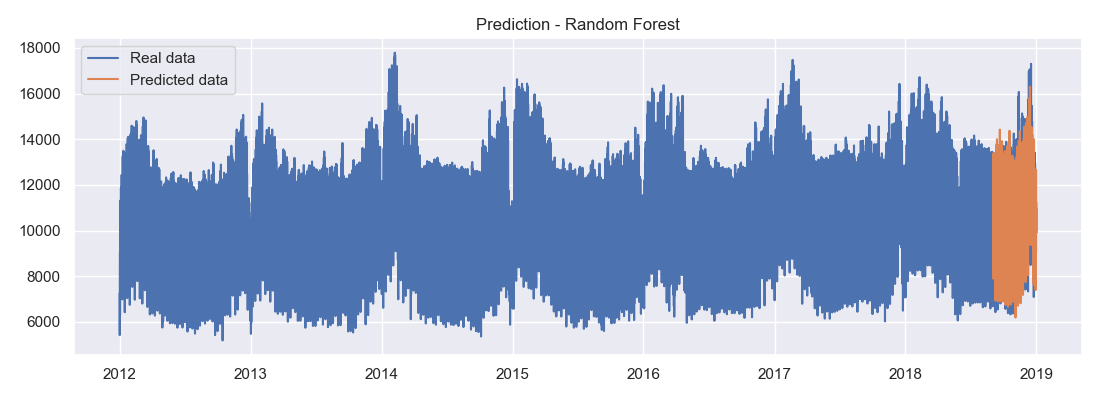
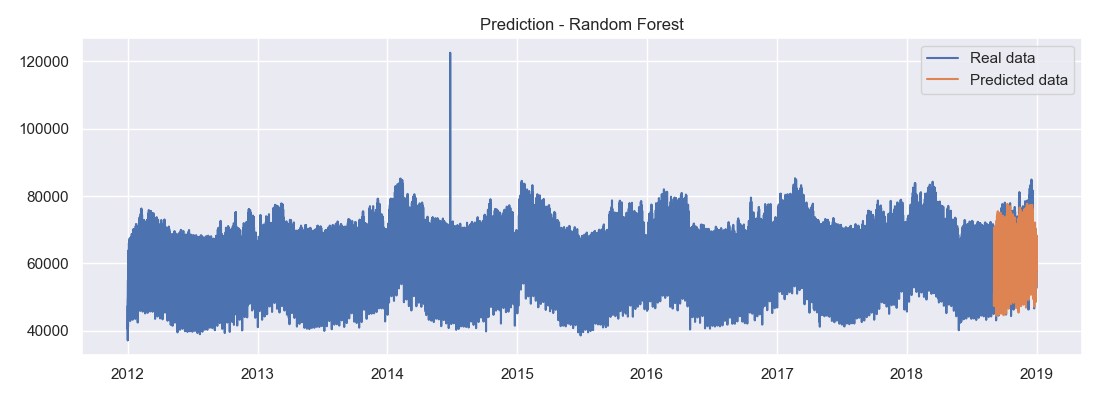
outliers detection and fix

diff --git a/ons_analysis.py b/ons_analysis.py
@@ -29,7 +29,7 @@ filename = filename[0].replace('\\','/')
 dataset = pd.read_csv(filename,index_col=None, header=0, delimiter=";")
 
 # Selection of year
-selectDatasets = ["2012","2013","2014","2015","2016","2017","2018"]
+selectDatasets = ["2011","2012","2013","2014","2015","2016","2017","2018"]
 
 # Select only selected data
 datasetList = []
@@ -187,74 +187,91 @@ Xs = pd.DataFrame(Xs)
 Ndays = 120
 testSize = (Ndays*24)/(ys.shape[0])
 #testSize = 0.1
-X_train, X_test, y_train, y_test = train_test_split(Xs, ys, test_size = testSize, random_state = 0, shuffle = False)
+X_train, X_test, y_train, y_test = train_test_split(Xs, yall, test_size = testSize, random_state = 0, shuffle = False)
 
+y_ = pd.concat([y_train, y_test])
+X_ = pd.concat([X_train, X_test])
 
 def outlinerDetection():
-    from sklearn.ensemble import IsolationForest
-    clf = IsolationForest(n_estimators=100, warm_start=True, max_samples='auto', random_state=42)
-    clf.fit(X_train, y_train)
-    y_pred_train = clf.predict(X_train)
-    y_pred_test = clf.predict(X_test)
+    global yall, X_train, X_test, y_train, y_test, y_, X_
     
-#    y_pred_test = pd.DataFrame(y_pred_test).set_index(X_test.index)
-    
-    outliers_train = ys.loc[y_pred_train == -1]
-#    outliers_test = ys.loc[y_pred_test == -1]
-
-    print("Outliers: " + str(len(outliers_train)) +" of "+ str(len(Xs)) + " values.", end="\n")
-    
-#    
-#    from sklearn.decomposition import PCA
-#    from sklearn.preprocessing import StandardScaler
-#    from mpl_toolkits.mplot3d import Axes3D
-#    pca = PCA(n_components=3)  # Reduce to k=3 dimensions
-#    sc = StandardScaler()
-    #normalize the metrics
-#    ys_trainsc = sc.fit_transform(pd.DataFrame(y_train))
-#    X_reduced = pca.fit_transform(ys_trainsc)
-#    fig = plt.figure()
-#    ax = fig.add_subplot(111, projection='3d')
-#    ax.set_zlabel("x_composite_3")
-#    # Plot the compressed data points
-#    ax.scatter(X_reduced[:, 0], X_reduced[:, 1], zs=X_reduced[:, 2], s=4, lw=1, label="inliers",c="green")
-#    # Plot x's for the ground truth outliers
-#    ax.scatter(X_reduced[outliers_train.index.values,0],X_reduced[outliers_train.index.values,1], X_reduced[outliers_train.index.values,2],
-#               lw=2, s=60, marker="x", c="red", label="outliers")
-#    ax.legend()
-#    plt.show()
-
-#    pca = PCA(n_components=1)
-#    pca.fit(pd.DataFrame(y_train))
-#    res=pd.DataFrame(pca.transform(pd.DataFrame(y_train)))
-#    Z = np.array(res)
-    plt.figure()
-    plt.title("IsolationForest")
-#    plt.contourf( Z, cmap=plt.cm.Blues_r)
-#    b1 = plt.scatter(res[0], res[1], c='green',
-#                    s=1,label="normal points")
-    b1 = plt.plot(y_train,label="normal points")
-#    b1 = plt.scatter(res.iloc[outliers_train.index.values,0],res.iloc[outliers_train.index.values,1], c='red',s=1,  label="predicted outliers")
-#    outliers_train.reindex(list(range(outliers_train.index.min(),outliers_train.index.max()+1)),fill_value=0)
-    outliers_train = outliers_train.reindex(list(range(outliers_train.index.min(),outliers_train.index.max()+1)),fill_value=0)
-#    outliers_trainsc = sc.fit_transform(pd.DataFrame(outliers_train))
-    b1 = plt.scatter(outliers_train.index.values,outliers_train, c='red',s=10,  label="predicted outliers")
-    plt.legend(loc="upper right")
-    plt.show()
-    
-    
-    
-    ####
     import plotly.io as pio
-    import plotly
     import plotly.graph_objects as go
+    import plotly
     pio.renderers.default = 'browser'
     
+    from sklearn.neighbors import LocalOutlierFactor
+    clf = LocalOutlierFactor(n_neighbors=20)
+    
+    
+    y_pred = clf.fit_predict(pd.DataFrame(y_))
+#    outliers_train = y_train.loc[y_pred_train == -1]
+    
+    negativeOutlierFactor = clf.negative_outlier_factor_
+    outliers = y_train.loc[negativeOutlierFactor < (negativeOutlierFactor.mean() - negativeOutlierFactor.std()-1)]
+    
+#    outliers.reindex(list(range(outliers.index.min(),outliers.index.max()+1)),fill_value=0)
+    
+
+    outliers_reindex = outliers.reindex(list(range(df.index.min(),df.index.max()+1)))
+
+    fig = go.Figure()
+    fig.add_trace(go.Scatter(x=df,
+                             y=y_,
+                             name='Demand (y_train)',
+                             mode='lines'))                         
+    fig.add_trace(go.Scatter(x=df,
+                             y=outliers_reindex,
+                             name='Predicted Outliers',
+                             mode='markers',
+                             marker_size=10))
+    # Edit the layout
+    fig.update_layout(title='Outliers',
+                      xaxis_title='Date',
+                      yaxis_title='Demand'
+                      )
+#                      width=1000,
+#                      height=500)
+
+    fig.show()
+    fig.write_image("ONS_outliers.png")
+    
+    # Fix outliers by removing them
+    
+    yall = pd.DataFrame(yall).replace([outliers],np.nan)
+    
+#    yall.loc[outliers.index.values]
+    
+    
+    X_train, X_test, y_train, y_test = train_test_split(Xs, yall.squeeze(), test_size = testSize, random_state = 0, shuffle = False)
+
+    y_ = pd.concat([y_train, y_test])
+    X_ = pd.concat([X_train, X_test])
+    
+#    y_ = np.array(y_)
+#    y_ = y_.reshape(y_.shape[0])
     
     fig = go.Figure()
-    fig.add_trace(go.Scatter(x=df, y=ys, name='South Demand', mode='markers'))                         
-    fig.show()
+    fig.add_trace(go.Scatter(x=df,
+                             y=y_,
+                             name='Demand (y_train)',
+                             mode='lines'))                         
+#    fig.add_trace(go.Scatter(x=df,
+#                             y=outliers_reindex,
+#                             name='Predicted Outliers',
+#                             mode='markers',
+#                             marker_size=10))
+    # Edit the layout
+    fig.update_layout(title='Outliers',
+                      xaxis_title='Date',
+                      yaxis_title='Demand'
+                      )
+#                      width=1000,
+#                      height=500)
 
+    fig.show()
+    fig.write_image("ONS_outliers.png")
+    
    
 
 def mean_absolute_percentage_error(y_true, y_pred): 
@@ -271,7 +288,7 @@ def seasonDecomposeCalc(autoCorrelation):
     from statsmodels.tsa.seasonal import seasonal_decompose
     #import statsmodels.api as sm
     data = pd.DataFrame(data=df)
-    concatlist = [data,pd.DataFrame(ys)]
+    concatlist = [data,pd.DataFrame(y_)]
     data = pd.concat(concatlist,axis=1)
     
     data.reset_index(drop=True,inplace=True)
@@ -295,7 +312,7 @@ def seasonDecomposeCalc(autoCorrelation):
 #    plt.title('Trend')
 #    plt.show()
     
-    detrended = ys - result.trend['Demanda'].reset_index(drop=True)
+    detrended = y_ - result.trend['Demanda'].reset_index(drop=True)
     plt.figure()
     plt.plot(detrended)
     plt.title('Detrended')
@@ -306,7 +323,7 @@ def seasonDecomposeCalc(autoCorrelation):
 #    plt.title('Seasonal')
 #    plt.show()
     
-    deseasonalized = ys - result.seasonal['Demanda'].reset_index(drop=True)
+    deseasonalized = y_ - result.seasonal['Demanda'].reset_index(drop=True)
     plt.figure()
     plt.plot(deseasonalized)
     plt.title('Deseasonalized')
@@ -317,21 +334,21 @@ def seasonDecomposeCalc(autoCorrelation):
         
         # Draw Plot
         plt.figure()
-        autocorrelation_plot(ys)
+        autocorrelation_plot(y_)
         plt.show()
         
     #    from statsmodels.tsa.stattools import acf, pacf
         from statsmodels.graphics.tsaplots import plot_acf, plot_pacf
         
-    #    plot_acf(ys)
-    #    plot_pacf(ys, lags=50)
+    #    plot_acf(y_)
+    #    plot_pacf(y_, lags=50)
         
         # PACF plot of 1st differenced series
     #    plt.rcParams.update({'figure.figsize':(9,3), 'figure.dpi':120})
         fig, axes = plt.subplots(1, 2, sharex=True)
-        axes[0].plot(pd.DataFrame(ys).diff()); axes[0].set_title('1st Differencing')
+        axes[0].plot(pd.DataFrame(y_).diff()); axes[0].set_title('1st Differencing')
     #    axes[1].set(ylim=(0,5))
-        plot_acf(pd.DataFrame(ys).diff().dropna(), ax=axes[1])
+        plot_acf(pd.DataFrame(y_).diff().dropna(), ax=axes[1])
         plt.show()
     
 
@@ -353,7 +370,7 @@ def featImportanceCalc():
     clf = RandomForestRegressor(random_state=0, n_jobs=-1)
     
     # Train model
-    model = clf.fit(Xs, ys)
+    model = clf.fit(Xs, y_)
     
     # Calculate feature importances
     importances = model.feature_importances_    
@@ -409,7 +426,7 @@ def decisionTreeCalc():
     
     plt.figure()
     #plt.plot(df2,y_tested, color = 'red', label = 'Real data')
-    plt.plot(df,ys, label = 'Real data')
+    plt.plot(df,y_, label = 'Real data')
     plt.plot(df2,y_pred, label = 'Predicted data')
     plt.title('Prediction - Decision Tree')
     plt.legend()
@@ -459,7 +476,7 @@ def randForestCalc(enableLearningCurve):
     
     plt.figure()
     #plt.plot(df2,y_tested, color = 'red', label = 'Real data')
-    plt.plot(df,ys, label = 'Real data')
+    plt.plot(df,y_, label = 'Real data')
     plt.plot(df2,y_pred, label = 'Predicted data')
     plt.title('Prediction - Random Forest')
     plt.legend()
@@ -548,7 +565,7 @@ def xgboostCalc(enableCV, enableLearningCurve):
     
     plt.figure()
     #plt.plot(df2,y_tested, color = 'red', label = 'Real data')
-    plt.plot(df,ys, label = 'Real data')
+    plt.plot(df,y_, label = 'Real data')
     plt.plot(df2,y_pred, label = 'Predicted data')
     plt.title('Prediction - XGBoost')
     plt.legend()
